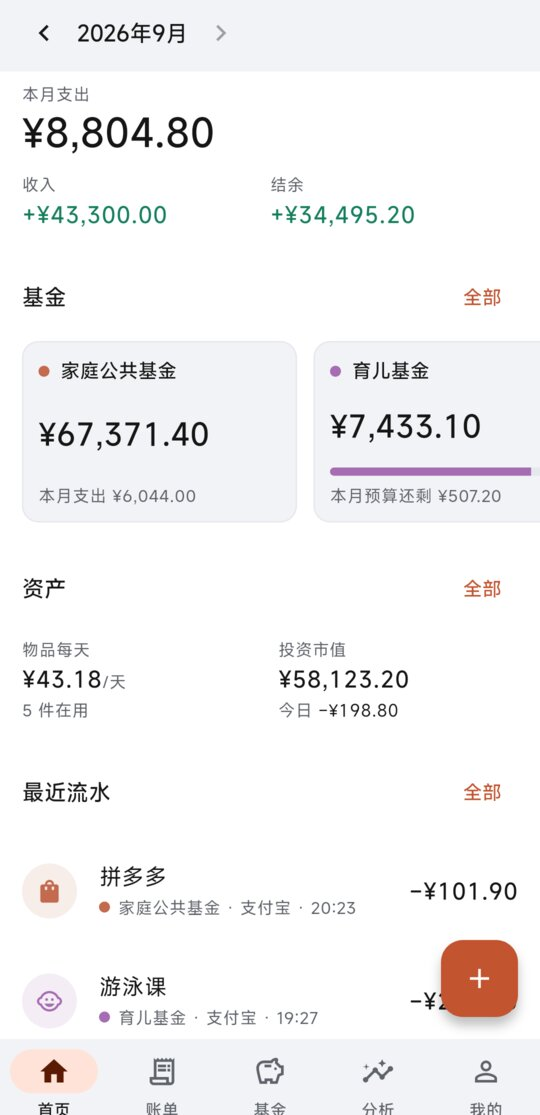
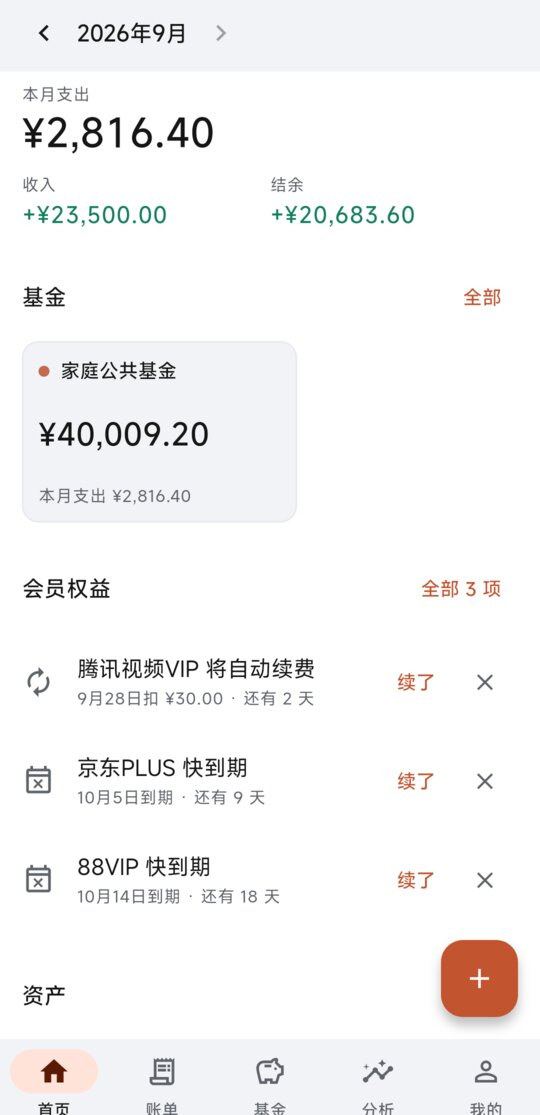
docs: README 截图换成资产扩展后的界面
手机：首页（会员权益提醒段）、物品（估值与净资产）、会员权益（本期 · 要处理 · 扣费线索）；
网页：首页、会员权益宽屏双栏。投资截图不再引用，删掉。

diff --git a/README.md b/README.md
@@ -8,8 +8,8 @@
 
 <p align="center">
   <img src="docs/screenshots/phone-home.jpg" width="24%" alt="首页">
-  <img src="docs/screenshots/phone-assets.jpg" width="24%" alt="物品日均成本">
-  <img src="docs/screenshots/phone-invest.jpg" width="24%" alt="投资持仓">
+  <img src="docs/screenshots/phone-assets.jpg" width="24%" alt="物品估值与净资产">
+  <img src="docs/screenshots/phone-perks.jpg" width="24%" alt="会员权益">
   <img src="docs/screenshots/phone-import.jpg" width="24%" alt="导入预览">
 </p>
 
@@ -29,7 +29,7 @@
 
 <p align="center">
   <img src="docs/screenshots/web-home.jpg" width="49%" alt="网页版首页">
-  <img src="docs/screenshots/web-assets.jpg" width="49%" alt="网页版资产">
+  <img src="docs/screenshots/web-assets.jpg" width="49%" alt="网页版会员权益">
 </p>
 
 ## 部署
